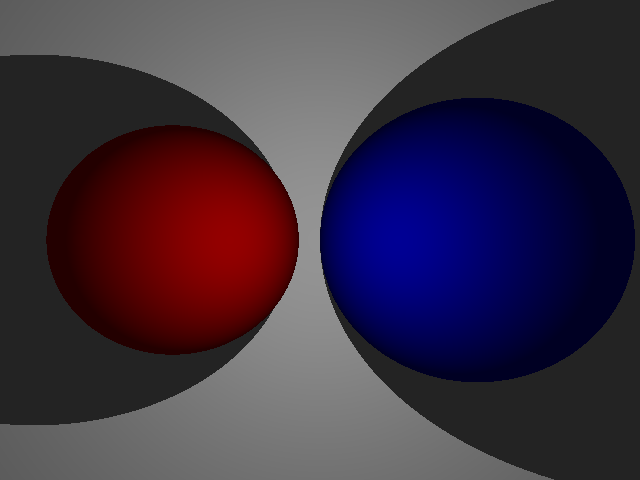
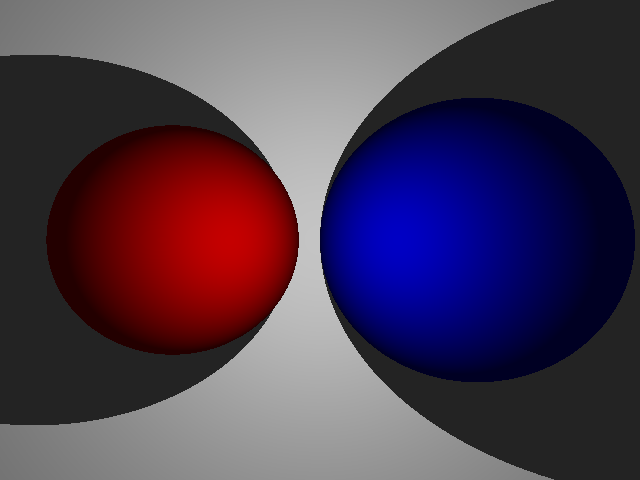
petite update scene + hotfix diffus

diff --git a/scene.py b/scene.py
@@ -84,59 +84,65 @@ class Scene:
 		res = res ** 2.2
 		return res
 
-	
-	def lum_diffuse(self, inter, obj, normale):
-			"""Renvoie les 3 cmposantes de la lumiere diffuse du point inter sur l'objet obj ainsi que la liste des rayons de lumiere qui touchent le point d'inter"""
-			ray_lum_list = []				#Liste des lumieres dont les rayons vont intersecter l'objet
-			#inter = np.round(inter)
-			#print(inter)
-			for lum in self.lum_list:
-				ray_obj_lum = vecteur.Vecteur(inter, lum.pos).normalisation()
+	def recherche_ray_lum(self, inter):
+		"""Renvoie la liste des rayons de lumiere qui touchent le point inter ainsi que la liste des couleurs de chacuns avec correction gamma"""
+		ray_lum_list = []				#Liste des lumieres dont les rayons vont intersecter l'objet
+		for lum in self.lum_list:
+			ray_obj_lum = vecteur.Vecteur(inter, lum.pos).normalisation()
 
-				jobj, jinter = self.plus_proche_intersection(vecteur.Point(inter), ray_obj_lum) #On cherche si un objet se trouve sur le rayon de lumiere dans le sens objet -> lumiere
-				#print(jobj, jinter)
-				if jobj == -1 :										#Pas d'objet entre notre point et notre lumiere, on est bon
+			jobj, jinter = self.plus_proche_intersection(vecteur.Point(inter), ray_obj_lum) #On cherche si un objet se trouve sur le rayon de lumiere dans le sens objet -> lumiere
+			#print(jobj, jinter)
+			if jobj == -1 :										#Pas d'objet entre notre point et notre lumiere, on est bon
+				ray_lum_list.append(lum)
+			else:											#Un objet est sur la demi droite, il faut verifier si il est avant ou apres la lumiere par rapport au point
+				a = self.dist_euclid(inter, lum.pos)
+				b = self.dist_euclid(inter, jinter)
+				if a < b : 			#Lumiere plus proche que l'autre objet, on est bon
 					ray_lum_list.append(lum)
-				else:											#Un objet est sur la demi droite, il faut verifier si il est avant ou apres la lumiere par rapport au point
-					a = self.dist_euclid(inter, lum.pos)
-					b = self.dist_euclid(inter, jinter)
-					if a < b : 			#Lumiere plus proche que l'autre objet, on est bon
-						ray_lum_list.append(lum)
-			if len(ray_lum_list) > 0:	#Calcul de la lumiere diffuse
-				kd = obj.diff
-				somme = np.zeros(3, dtype = float)
-				coul_list = []
-				for lum in ray_lum_list:
-					coul_list.append(lum.intens)
-				if len(coul_list) > 1:			#On applique la correction gamma si on a plusieurs lumieres
-					coul_list = self.correction_gamma(coul_list)		
+		
+		coul_list = []
+		if len(ray_lum_list) > 0:	
+			for lum in ray_lum_list:
+				coul_list.append(np.array(lum.intens))
+			if len(coul_list) > 1:			#On applique la correction gamma si on a plusieurs lumieres
+				coul_list = self.correction_gamma(coul_list)
+		return ray_lum_list, coul_list
+	
 
-				for i in range(len(ray_lum_list)):
-						Ii = np.array(coul_list[i])
-						L = vecteur.Vecteur(inter, ray_lum_list[i].pos).normalisation()
-						#print(L.composantes())
-						dot_product = max(L.prod_scal(normale),0)
-						somme += Ii * kd * dot_product			#somme est un triplet
-				res = somme * kd
-				#print(res)
-				return res
-			return (np.zeros(3, dtype = float), ray_lum_list)		#On renvoie 0 0 0 si aucune lumiere n'atteint le point
+	def lum_diffuse(self, inter, obj, ray_lum_list, coul_list, normale):
+			"""Renvoie les 3 cmposantes de la lumiere diffuse du point inter sur l'objet obj """
+			if len(ray_lum_list) == 0:
+				return (np.zeros(3, dtype = float))		#On renvoie 0 0 0 si aucune lumiere n'atteint le point
+			kd = obj.diff
+			somme = np.zeros(3, dtype = float)
+			for i in range(len(ray_lum_list)):			#Calcul de la lumiere diffuse
+					Ii = coul_list[i]
+					L = vecteur.Vecteur(inter, ray_lum_list[i].pos).normalisation()
+					#print(L.composantes())
+					dot_product = max(L.prod_scal(normale),0)
+					somme += Ii * dot_product			#somme est un triplet
+			res = somme * kd
+			#print(res)
+			return res
+			
 				
 
-	def lum_spec(self, ray_vue, inter, obj, normale,ray_lum_list):
+	def lum_spec(self, ray_vue, obj, normale, ray_lum_list, coul_list):
 		"""Renvoie les 3 composantes de la lumiere speculaire au point inter pour le ray_vue sur obj avec la liste des rayons de lumiere qui touchent le point ray_lum_list"""
-		coul_list = []
-		for lum in ray_lum_list:
-			lum_r = self.ray_reflechi(lum, normale)
-			#TODO: Bouger toute la partie calcul de quel ray-lum on prends dans Phong pour récup facilement ray_lum_list et coul_obj_list (Ii)
+		if len(ray_lum_list) == 0:
+			return (np.zeros(3, dtype = float))		#On renvoie 0 0 0 si aucune lumiere n'atteint le point
+		for i in range(len(ray_lum_list)):
+			lum_r = self.ray_reflechi(ray_lum_list[i], normale)
+			Ii = coul_list[i]
+
 
 
 
 	def phong(self, obj, inter, rayon_vue, n=100):  		
 		'''Applique le modèle d'illumination de Phong à l'objet'''
+		ray_lum_list, coul_list = self.recherche_ray_lum(inter)
 		normale = obj.normale(inter)
-		diffus, ray_lum_list = self.lum_diffuse(inter, obj, normale)
-		diffus = vecteur.Vecteur(extremite = diffus)
+		diffus = vecteur.Vecteur(extremite = self.lum_diffuse(inter, obj, ray_lum_list, coul_list, normale))
 		ambiant = self.Ia.mult_scal(self.ka)
 		spec = vecteur.Vecteur(extremite = (0, 0, 0)) #Speculaire a 0 pour l'instant donc rayon_vue et n ne servent pas pour l'instant
 		return (ambiant.addition(diffus).addition(spec)).composantes()	* obj.coul				#Idee pour spec : calculer les R de L directement dans self.lum_diff et les retourner
